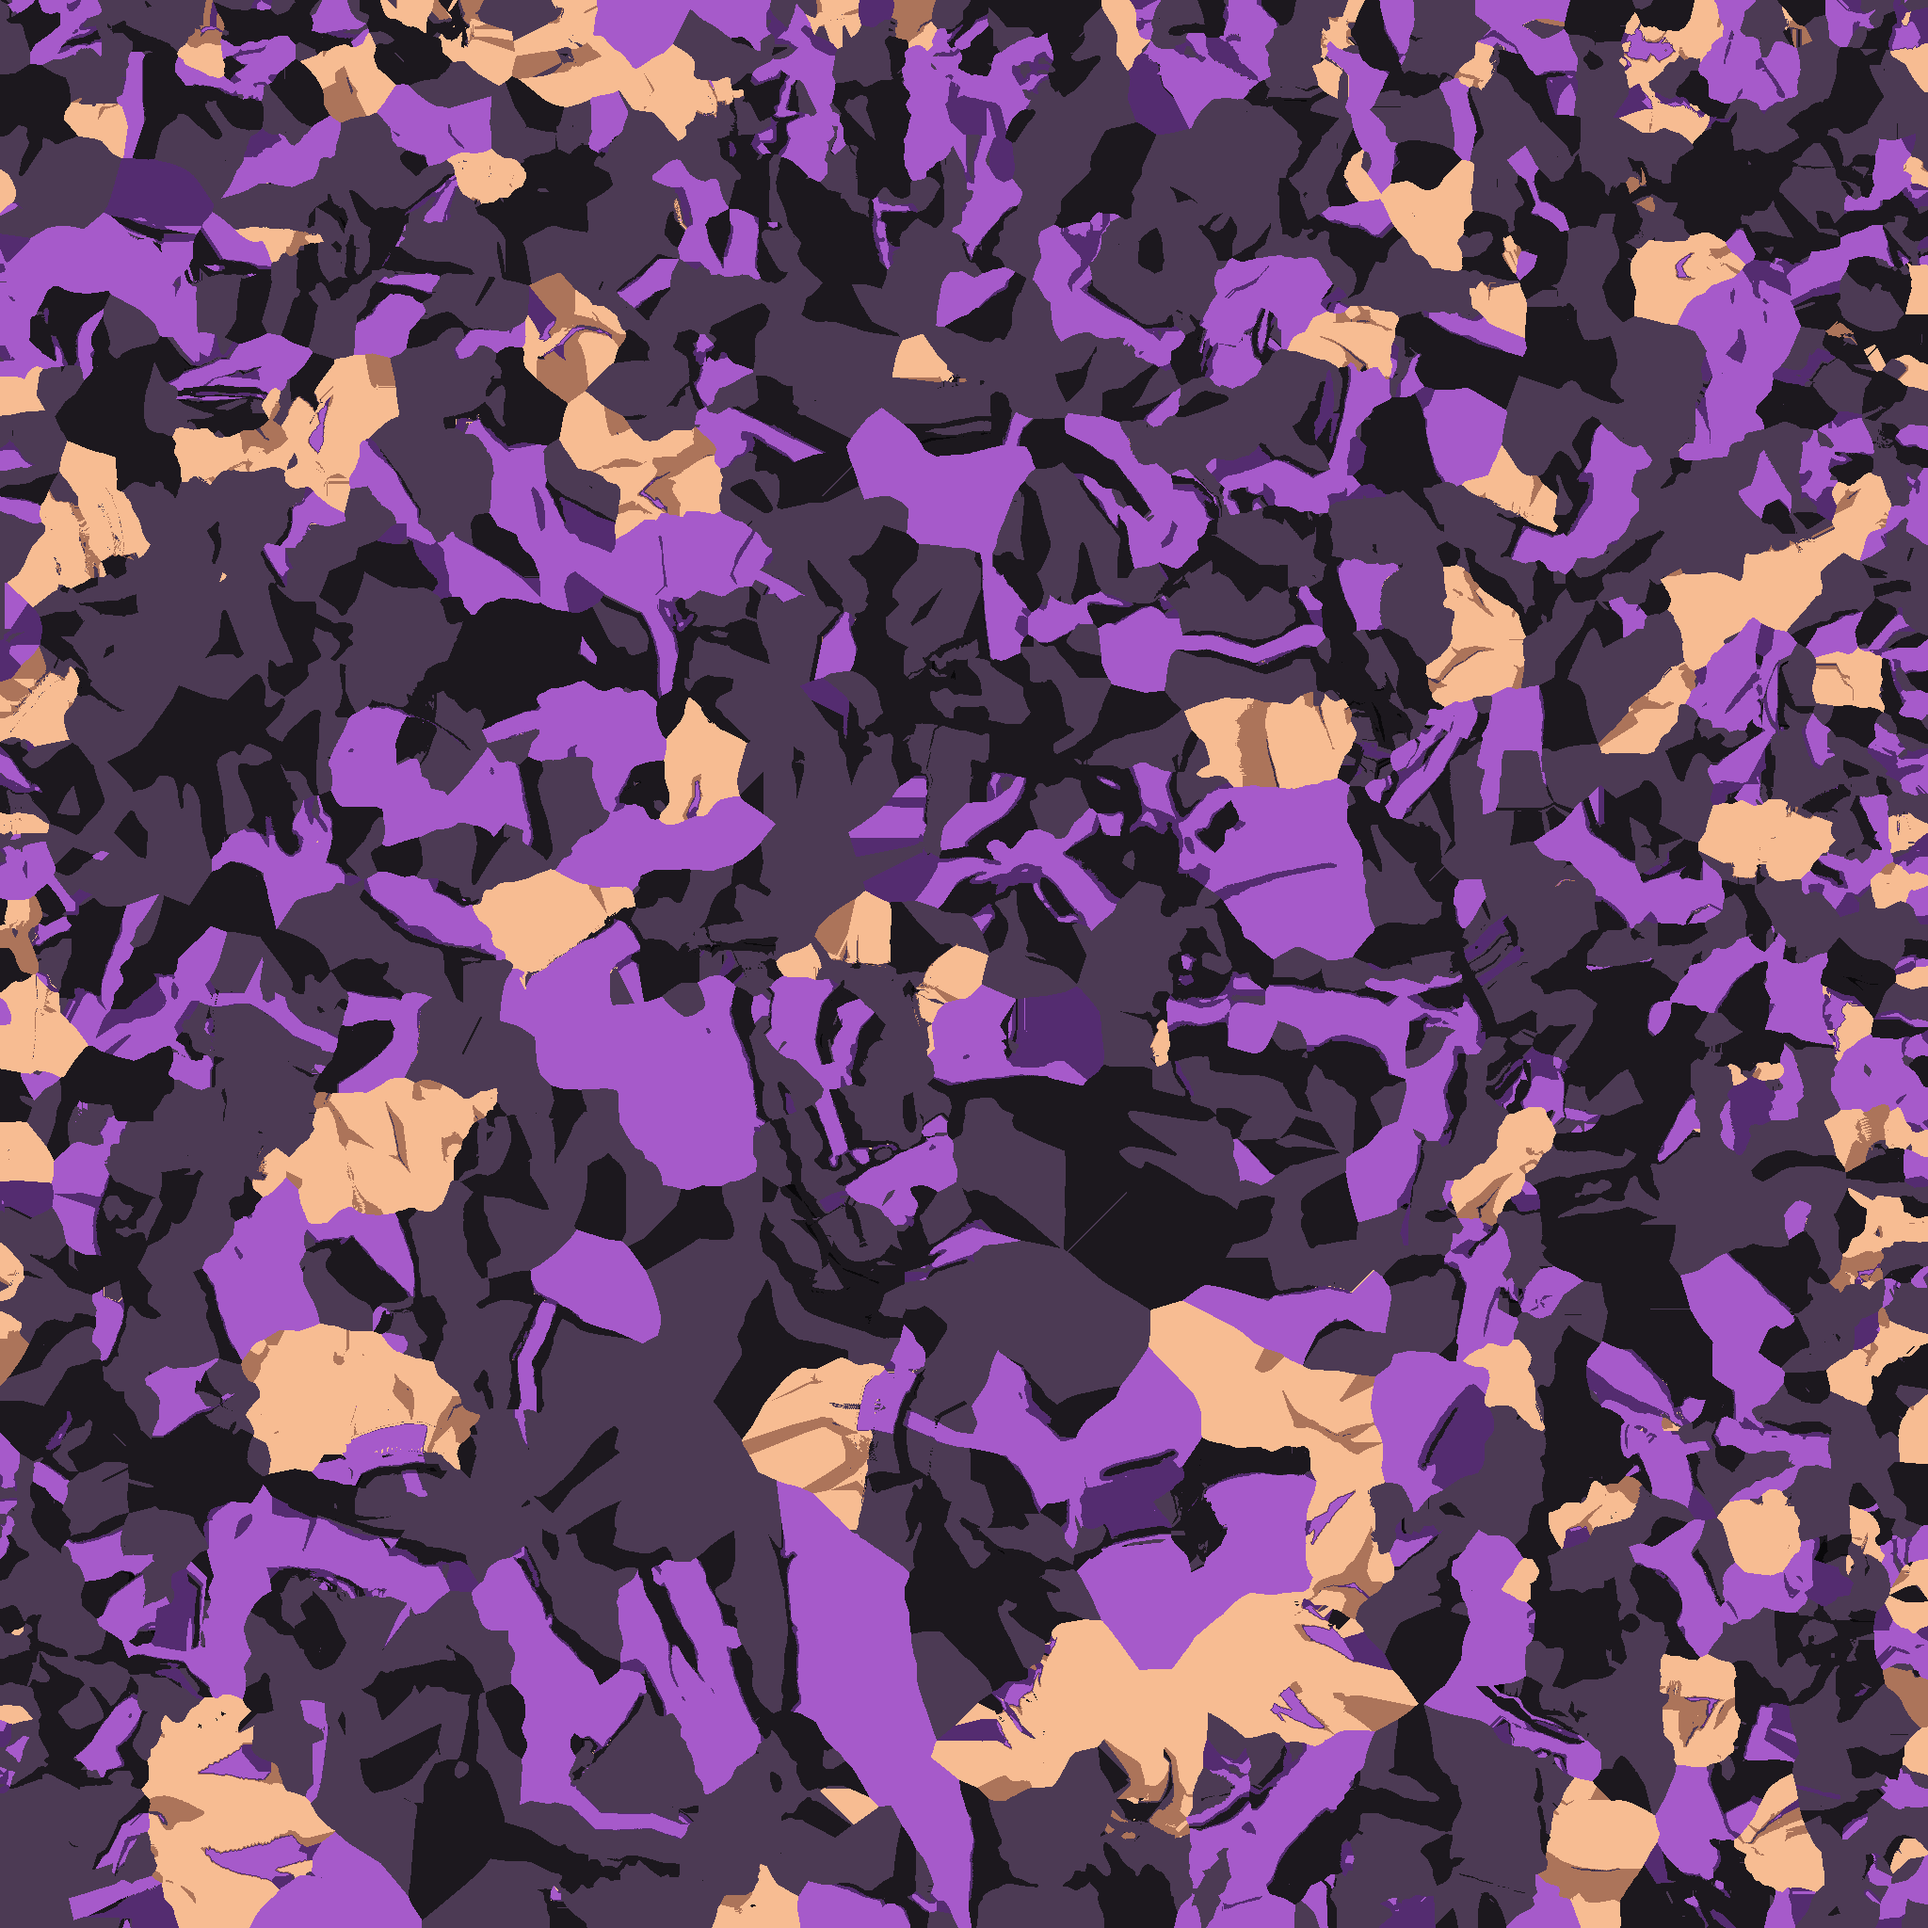
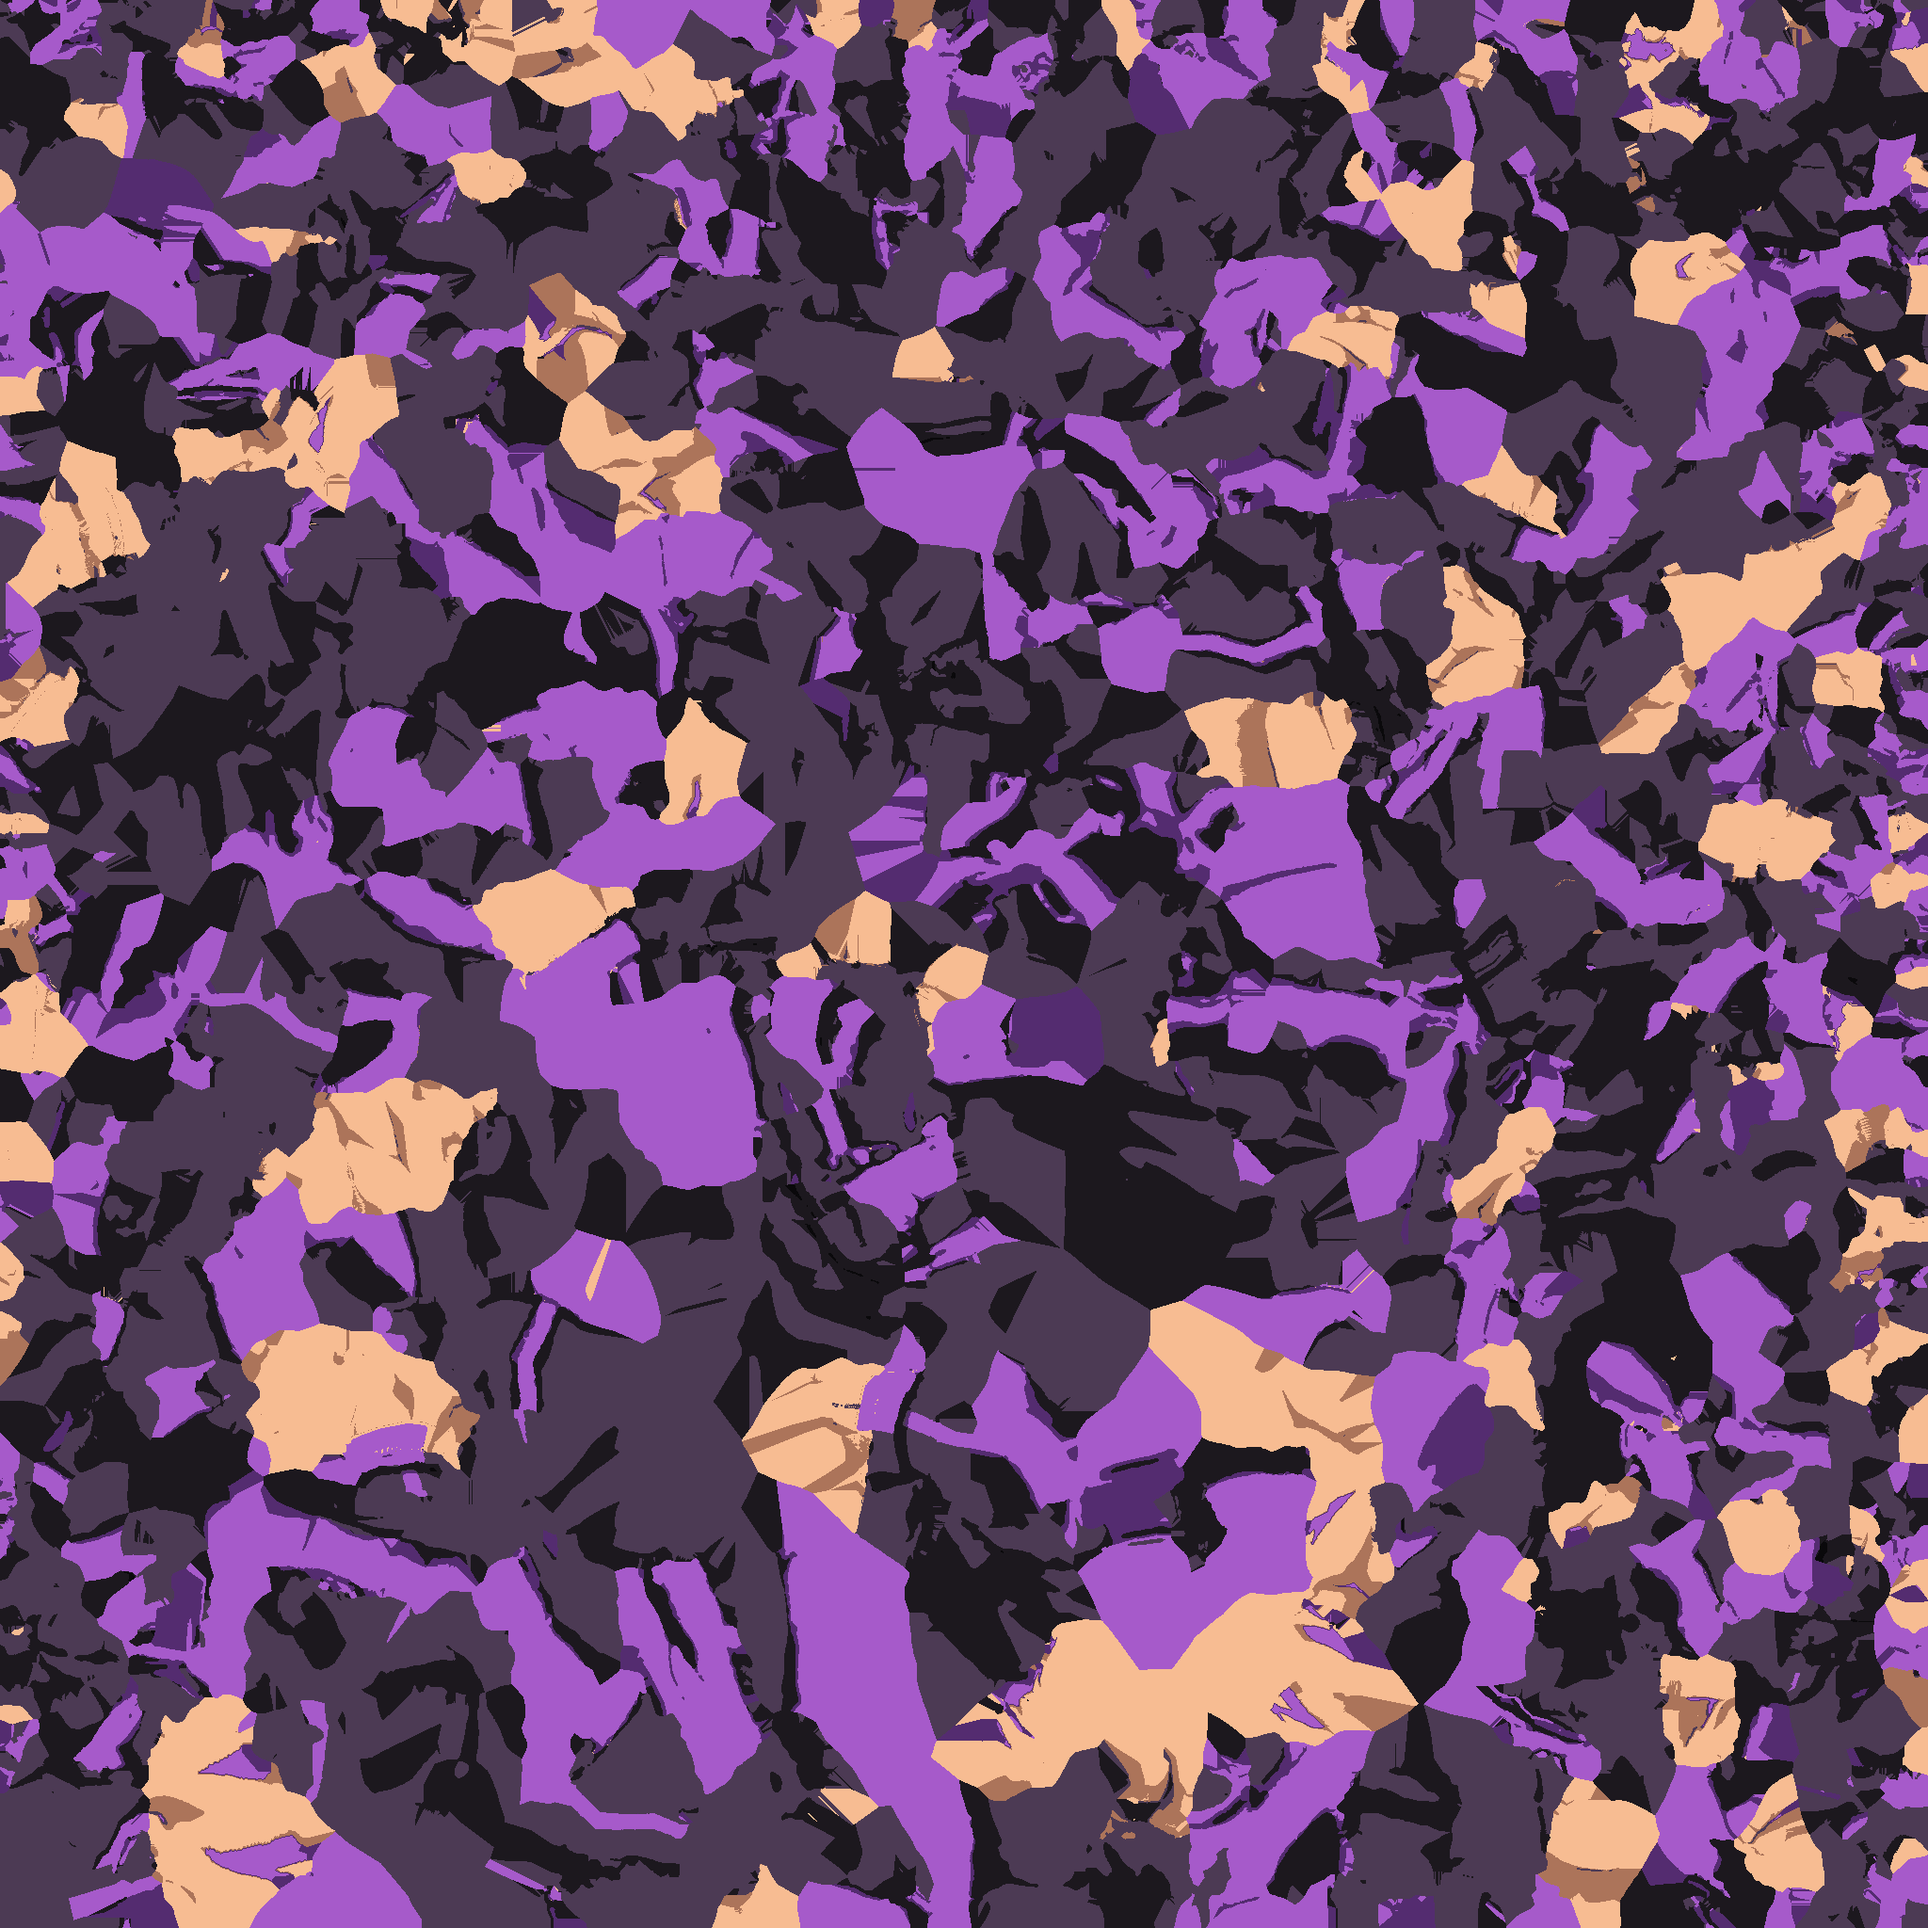
Kael: vestito senza colori sovrapposti (ogni colore sul suo pezzo, via i puntini), versione 14
Claude-Session: https://claude.ai/code/session_014XUVKvWBodq3kjfPiKyGRo

diff --git a/tools/kael_body.py b/tools/kael_body.py
@@ -45,7 +45,9 @@ ARM_SKIN = .45                                  # the arms' (shoulders' to hands
 RECOLOUR = {(46, 45, 48): 'plum', (14, 13, 15): 'black'}   # tools/kael_fix.py's suit tones (lit, folds) -> the drawings'
 TAT = (.006, .5, 1, 20, .25)                   # see the tattoos in main(): rim (m), its skin share, edge (texels); the least piece (texels), its inside's share
 UPPER, BACK_FACING = .3, .5                    # the shoulders' and upper arms' bones' share; the back sheet: the least facing
-SPECK, INK_MIN = (6., 1.), .5                  # mm2: specks of a colour (cloth, lines) taken by what is around them; ink all or none
+SPECK = (8., 1.)                               # mm2: specks of a colour (cloth, lines) taken by what is around them
+MAT = (25, 45, 40, 30.)                        # Meshy's purple: blue over green by [0], blue over [1], red under blue plus [2]; pieces under [3] mm2 as around them
+SMOOTH = (2, 1)                                # rounds of the pieces' smoothing (wide), of the colours' borders (near)
 
 
 def nearest(c, cols):
@@ -137,10 +139,40 @@ def main(pkg, debug=None):
     tt = tat[ys, xs] & use; cur[tt] = PAL['purple']; te = edge[ys, xs] & use; cur[te] = PAL['purpleS']
     print('body: %d pieces of the arms\' tattoos (%d texels) to the drawings\' purple' % (nt, int(tt.sum())))
     print('body: %d texels painted from the views, %d recoloured to the palette' % (int(painted.sum()), int((use & ~painted).sum())))
-    # 3. the flat colours
-    k, dist = nearest(cur, cols); a_ = np.zeros(len(ks))
-    ink = (cur.mean(1) < 22) & (dist > 12)
-    newc = cols[k]; newc[ink] = INKC
+    # 3. the flat colours, one piece's colours never over another's (Denis, 11/11, on the first repaint: "ci sei quasi alcuni colori si
+    # sovrappongono ancora sul vestito"): kael_fix.py painted the folds black over the purple pieces as over the suit, and its purples
+    # spilled on the suit by a texel or two. Each texel's piece (MAT: the suit, a purple piece, the skin) is Meshy's own paint's (kael.jpg:
+    # its purple pieces keep their hue in their folds), smoothed on the surface; where a view painted, the drawing's. On a purple piece
+    # the suit's black is the purple's shadow and its plum the purple; on the suit a purple is the plum and the purple's shadow the black.
+    # Then the specks of each colour (SPECK mm2) take what is around them and the borders are smoothed (SMOOTH rounds); the skin and the
+    # tattoos (tools/kael_arms.py's arms) as they are
+    import kael_flat as KF
+    KF.prepare(P, I); names_ = names + ['ink']; cols_ = np.vstack([cols, INKC]); u_ = np.nonzero(use)[0]
+    k, dist = nearest(cur[u_], cols); lab = k.copy(); lab[(cur[u_].mean(1) < 22) & (dist > 12)] = len(names)
+    cnt = np.bincount(ks, minlength=len(I)).astype(float); area = KF.TRI_AREA[ks[u_]] * 1e6 / np.maximum(cnt[ks[u_]], 1)
+    jw, okw, ok = KF._graph(pos[u_], nor[u_].astype(np.float32), np.sqrt(area) * 1e-3); j = jw[:, :KF.KNN - 1]
+    mo = np.asarray(Image.open(os.path.join(pkg, name + '.jpg')).convert('RGB')).astype(np.float64)[ys[u_], xs[u_]]
+    r_, g_, b_ = mo[:, 0], mo[:, 1], mo[:, 2]
+    mat = np.zeros(len(u_), np.int64)                                            # 0 the suit
+    mat[(b_ - g_ > MAT[0]) & (b_ > MAT[1]) & (r_ < b_ + MAT[2])] = 1              # 1 a purple piece
+    mat[(r_ > 120) & (r_ - b_ > 40) & (g_ > 70)] = 2                               # 2 the skin
+    pc = sheet_scan.classes(cur[u_]); pv = painted[u_]
+    mat[pv] = np.where(pc[pv] == 4, 1, np.where(pc[pv] == 1, 2, 0))
+    keep = (lab == names.index('skin')) | (lab == names.index('skinS')) | tt[u_] | te[u_]   # (the skin and the tattoos as they are)
+    for _ in range(SMOOTH[0]):
+        mm = KF._mode(mat, jw, okw, 3, keep=pv); mat = np.where(pv, mat, mm)
+    KF._small(mat, j, ok, area, np.full(len(u_), MAT[3]), pv | keep)
+    i_pl, i_bk, i_pu, i_ps = names.index('plum'), names.index('black'), names.index('purple'), names.index('purpleS')
+    on_p = (mat == 1) & ~keep; on_s = (mat == 0) & ~keep
+    n1 = int((on_p & (lab == i_bk)).sum()) + int((on_p & (lab == i_pl)).sum()); n2 = int((on_s & ((lab == i_pu) | (lab == i_ps))).sum())
+    lab[on_p & (lab == i_bk)] = i_ps; lab[on_p & (lab == i_pl)] = i_pu
+    lab[on_s & (lab == i_pu)] = i_pl; lab[on_s & (lab == i_ps)] = i_bk
+    print('body: %d texels of the suit\'s colours on the purple pieces, %d of the purples on the suit, to their own piece\'s' % (n1, n2))
+    ns = KF._small(lab, j, ok, area, np.where(lab == len(names), SPECK[1], SPECK[0]), keep)
+    for _ in range(SMOOTH[1]):
+        mm = KF._mode(lab, j, ok, len(names_), keep=keep); lab = np.where(keep, lab, mm)
+    print('body: %d texels of specks as what is around them, the borders smoothed %d times' % (ns, SMOOTH[1]))
+    newc = np.zeros((len(ks), 3)); newc[u_] = cols_[lab]
     out[ys[use], xs[use]] = newc[use]
     cov = np.zeros((TS, TS), bool); cov[ys[use], xs[use]] = True
     _, (iy, ix) = ndimage.distance_transform_edt(~cov, return_indices=True); out[~cov] = out[iy[~cov], ix[~cov]]

diff --git a/docs/HANDOFF.md b/docs/HANDOFF.md
@@ -191,7 +191,7 @@ Il 10/11, dopo due prove scartate (corpo gonfiato per i vestiti, poi vestiti sol
 
 **11/11, tempia di Kael tra orecchio e occhio (pubblicata nell'anteprima, versione 10, su richiesta di Denis: "anteprima?")**: Denis ha cerchiato sull'anteprima la tempia destra vista da dietro di lato (macchia marrone con la punta di una ciocca). Causa: accanto agli angoli degli occhi dipinge solo il disegno di fronte, che lì vede le ciocche e non la tempia; la striscia restava con l'ombra delle ciocche nascoste di lato. Ora è dei disegni di lato, su tutti e due i lati; via anche i puntini sulla guancia (texel dei triangoli tolti che sbordavano). Occhi e sopracciglia come prima. Versione 11 (dopo quattro controllori indipendenti con scettici): via il taglio dritto della ciocca accanto all'occhio destro, le righe grigie dentro la ciocca nuova e il cuneo marrone alla punta della ciocca sinistra. Dettagli in `docs/meshy/KAEL.md`, "Tempia tra orecchio e occhio".
 
-**11/11, corpo di Kael nei colori dei fogli del corpo (pubblicato nell'anteprima, versione 13)**: Denis ha rimandato i fogli di busto, gambe e schiena ("ora migliorami il corpo come hai fatto per il viso deve essere identico senza usare agenti") e, tra rifare i pezzi con Meshy (60 crediti) e ridipingere, ha scelto "Solo ridipingere, gratis". `tools/kael_body.py` (dopo `kael_arms.py`): stoffa viola scuro con ombre nere, viola in due toni, tatuaggi a fulmine viola, la schiena dal foglio della schiena, i gambali degli stivali dai fogli delle gambe; il colletto della testa nei colori del gilet (`COLLAR_OUT` in `tools/kael_flat.py`); la pittura è `kael_painted.png`. Occhi e sopracciglia: nessun texel cambiato. Resta (forme di Meshy): fascia a banda e non a nodo, due code e l'orlo viola dietro, le strisce viola davanti sono quelle di Meshy. Dettagli in `docs/meshy/KAEL.md`, "Corpo dai fogli del corpo".
+**11/11, corpo di Kael nei colori dei fogli del corpo (pubblicato nell'anteprima, versione 13)**: Denis ha rimandato i fogli di busto, gambe e schiena ("ora migliorami il corpo come hai fatto per il viso deve essere identico senza usare agenti") e, tra rifare i pezzi con Meshy (60 crediti) e ridipingere, ha scelto "Solo ridipingere, gratis". `tools/kael_body.py` (dopo `kael_arms.py`): stoffa viola scuro con ombre nere, viola in due toni, tatuaggi a fulmine viola, la schiena dal foglio della schiena, i gambali degli stivali dai fogli delle gambe; il colletto della testa nei colori del gilet (`COLLAR_OUT` in `tools/kael_flat.py`); la pittura è `kael_painted.png`. Occhi e sopracciglia: nessun texel cambiato. Resta (forme di Meshy): fascia a banda e non a nodo, due code e l'orlo viola dietro, le strisce viola davanti sono quelle di Meshy. Versione 14 (Denis: "ci sei quasi alcuni colori si sovrappongono ancora sul vestito"): ogni colore resta sul suo pezzo (niente pieghe nere sulla fascia e sui pezzi viola, niente viola sparso sulla stoffa, via i puntini). Dettagli in `docs/meshy/KAEL.md`, "Corpo dai fogli del corpo".
 Per dopo (Kael, annotate, non fatte):
 - le code della fascia libere coi nastri come Ren (ora sono attaccate ai pantaloni, come le ha fatte Meshy);
 - la guardia con la testa più alta, se Denis la vuole;

diff --git a/docs/meshy/KAEL.md b/docs/meshy/KAEL.md
@@ -480,6 +480,14 @@ crediti, saldo 1000): Denis ha scelto di tenere le forme e ridipingere ("Solo ri
   nei colori del gilet (`COLLAR_OUT` in `tools/kael_flat.py`), scelti con quelli di prima.
 - La pittura è un PNG (`kael_painted.png`, colori piatti senza le sbavature del JPEG); `mk.sh` toglie il JPEG dalla
   pagina dell'anteprima.
+- **Niente colori sovrapposti sul vestito** (versione 14; Denis sulla 13: "ci sei quasi alcuni colori si sovrappongono
+  ancora sul vestito"): `kael_fix.py` aveva messo le pieghe nere anche sui pezzi viola (fascia, code, strisce) e i viola
+  sbordavano sulla stoffa di un texel o due. Ora ogni texel sa di che pezzo è (stoffa, viola, pelle: dalla pittura di
+  Meshy, che nei pezzi viola tiene il viola anche nelle pieghe, lisciata sulla superficie; dove dipinge il foglio, il
+  suo): sul viola il nero diventa l'ombra viola e il viola scuro della stoffa il viola; sulla stoffa i viola diventano
+  stoffa e ombra nera (`MAT`). Poi i puntini sotto 8 mm² (righe sotto 1) prendono il colore attorno e i bordi sono
+  lisciati (`SPECK`, `SMOOTH`); pelle e tatuaggi restano come sono. Su questo modello: 30.141 texel di stoffa sui
+  pezzi viola, 4.630 di viola sulla stoffa, 8.086 di puntini.
 - Resta (forme di Meshy, non toccate per scelta di Denis): la fascia è una banda e non un nodo, dietro sui fianchi due
   code e il bordo viola dell'orlo, le strisce viola del davanti sono quelle di Meshy (simili, non le stesse del foglio).
 
